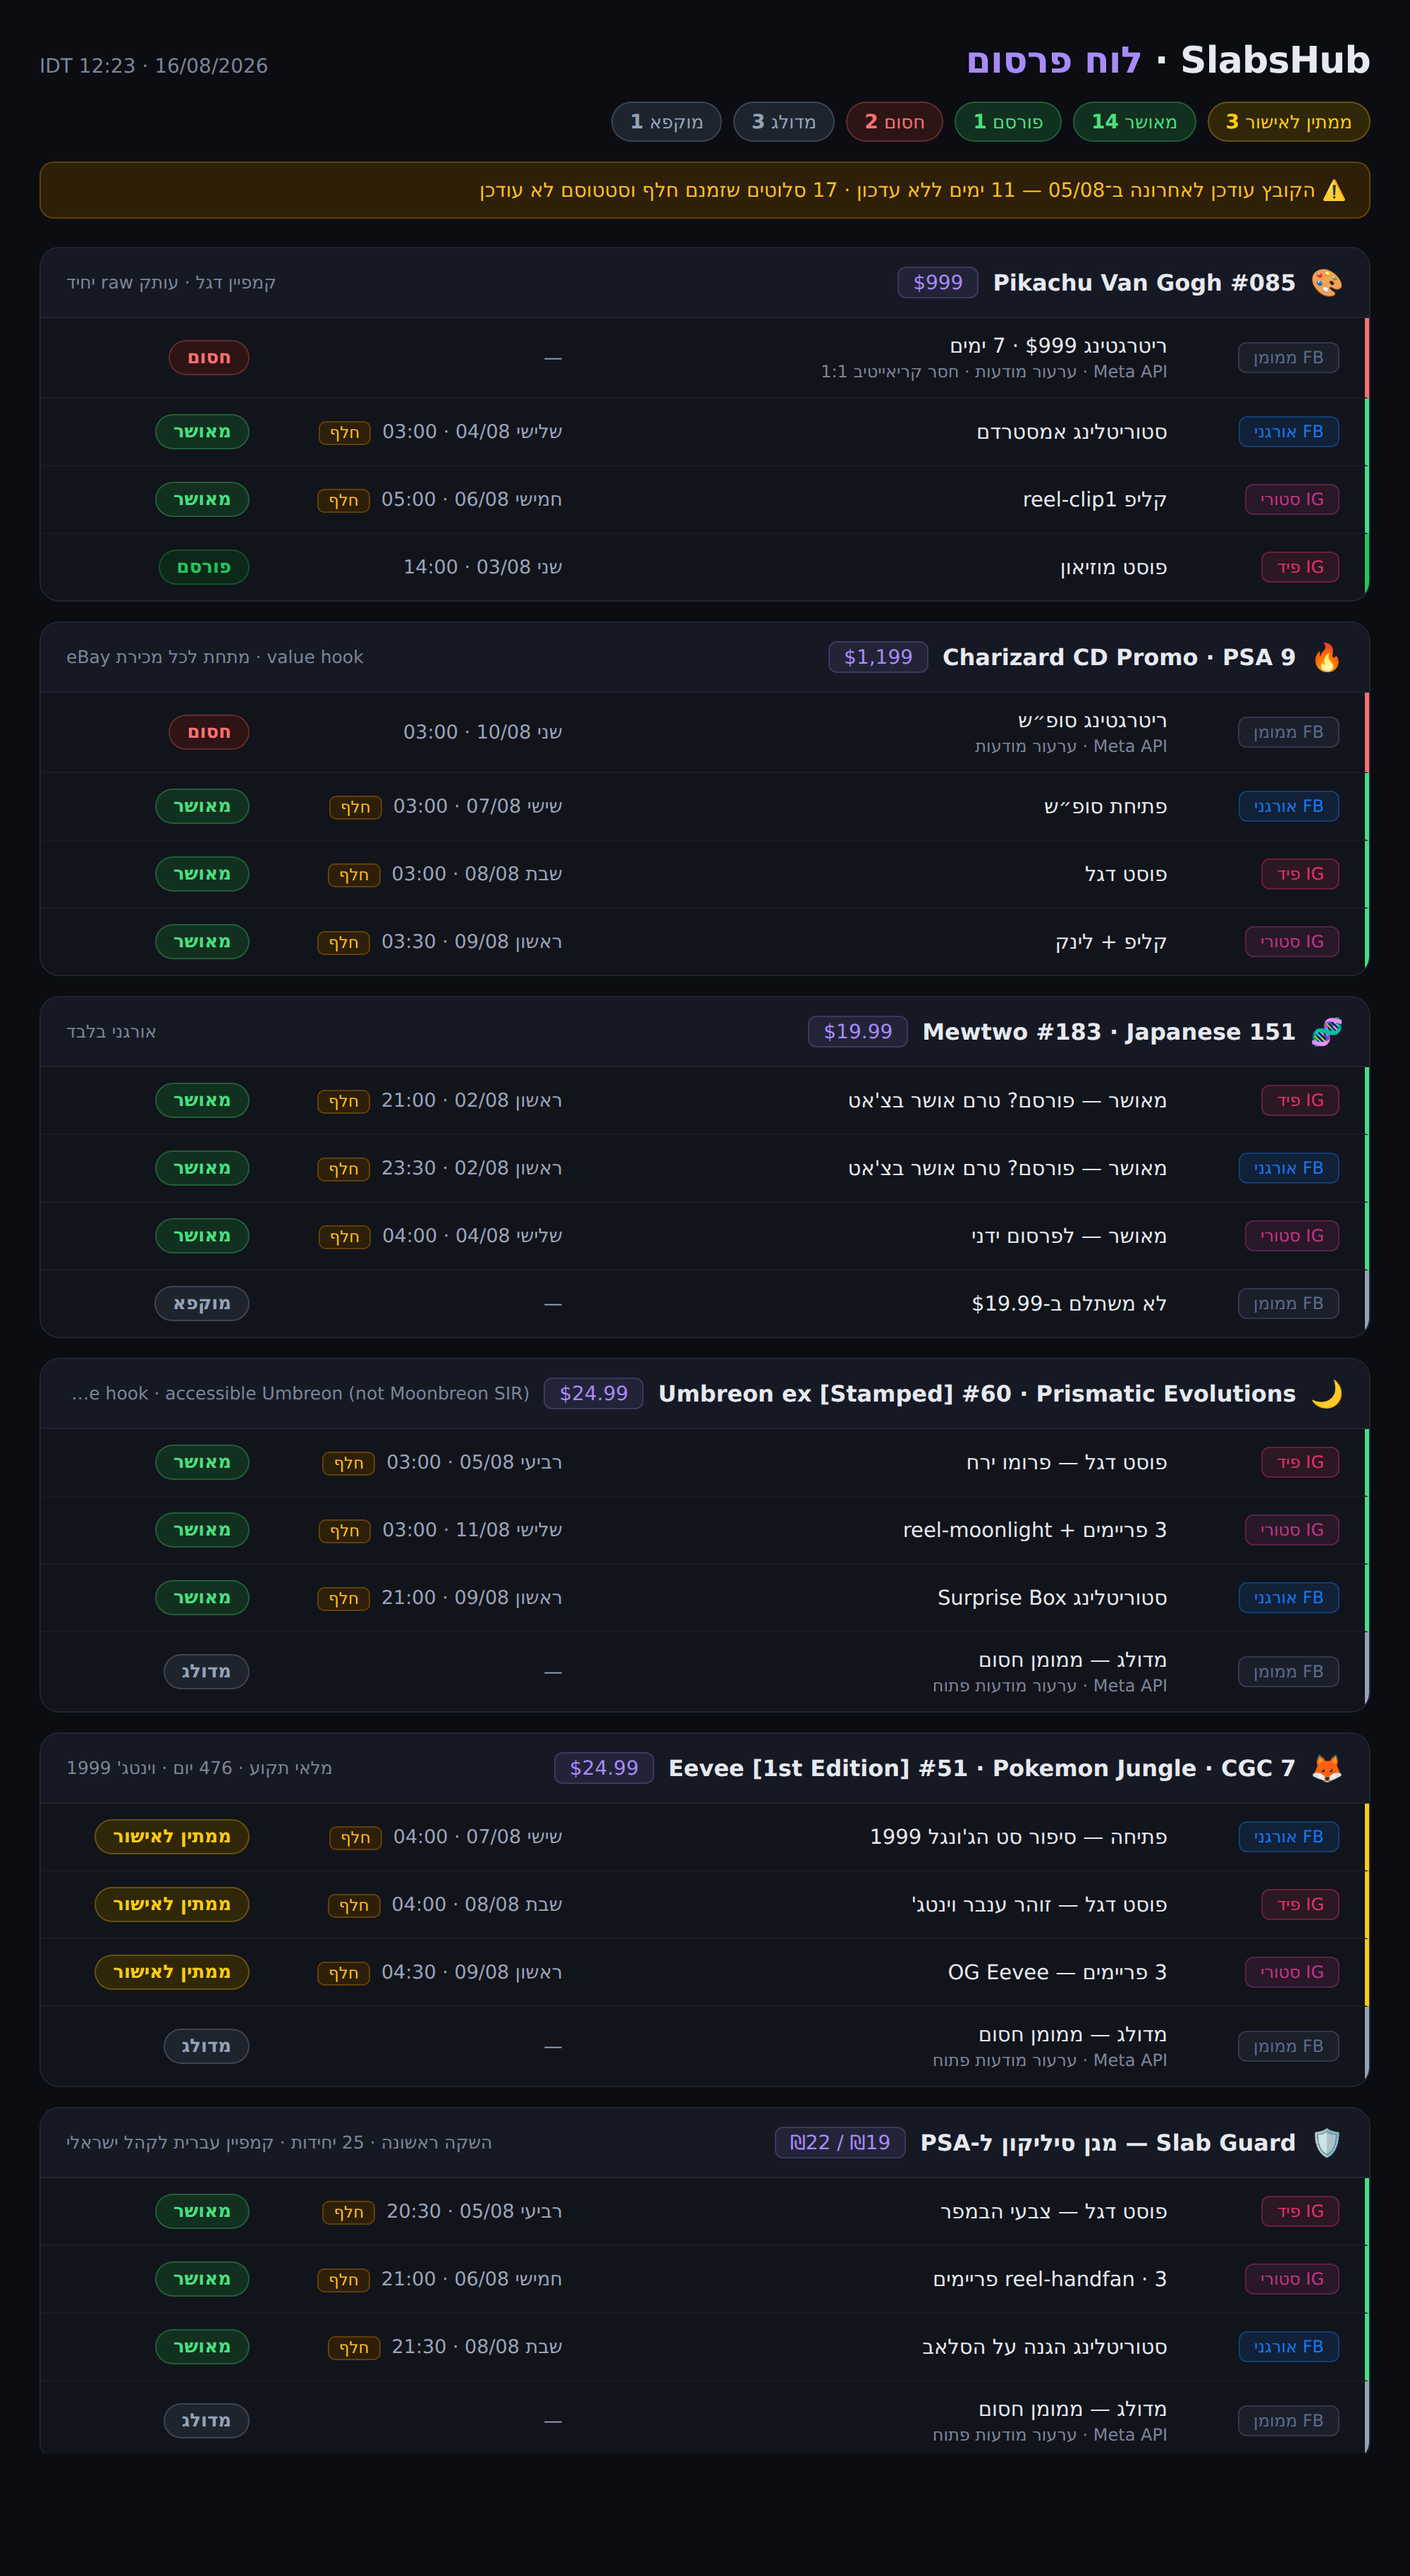
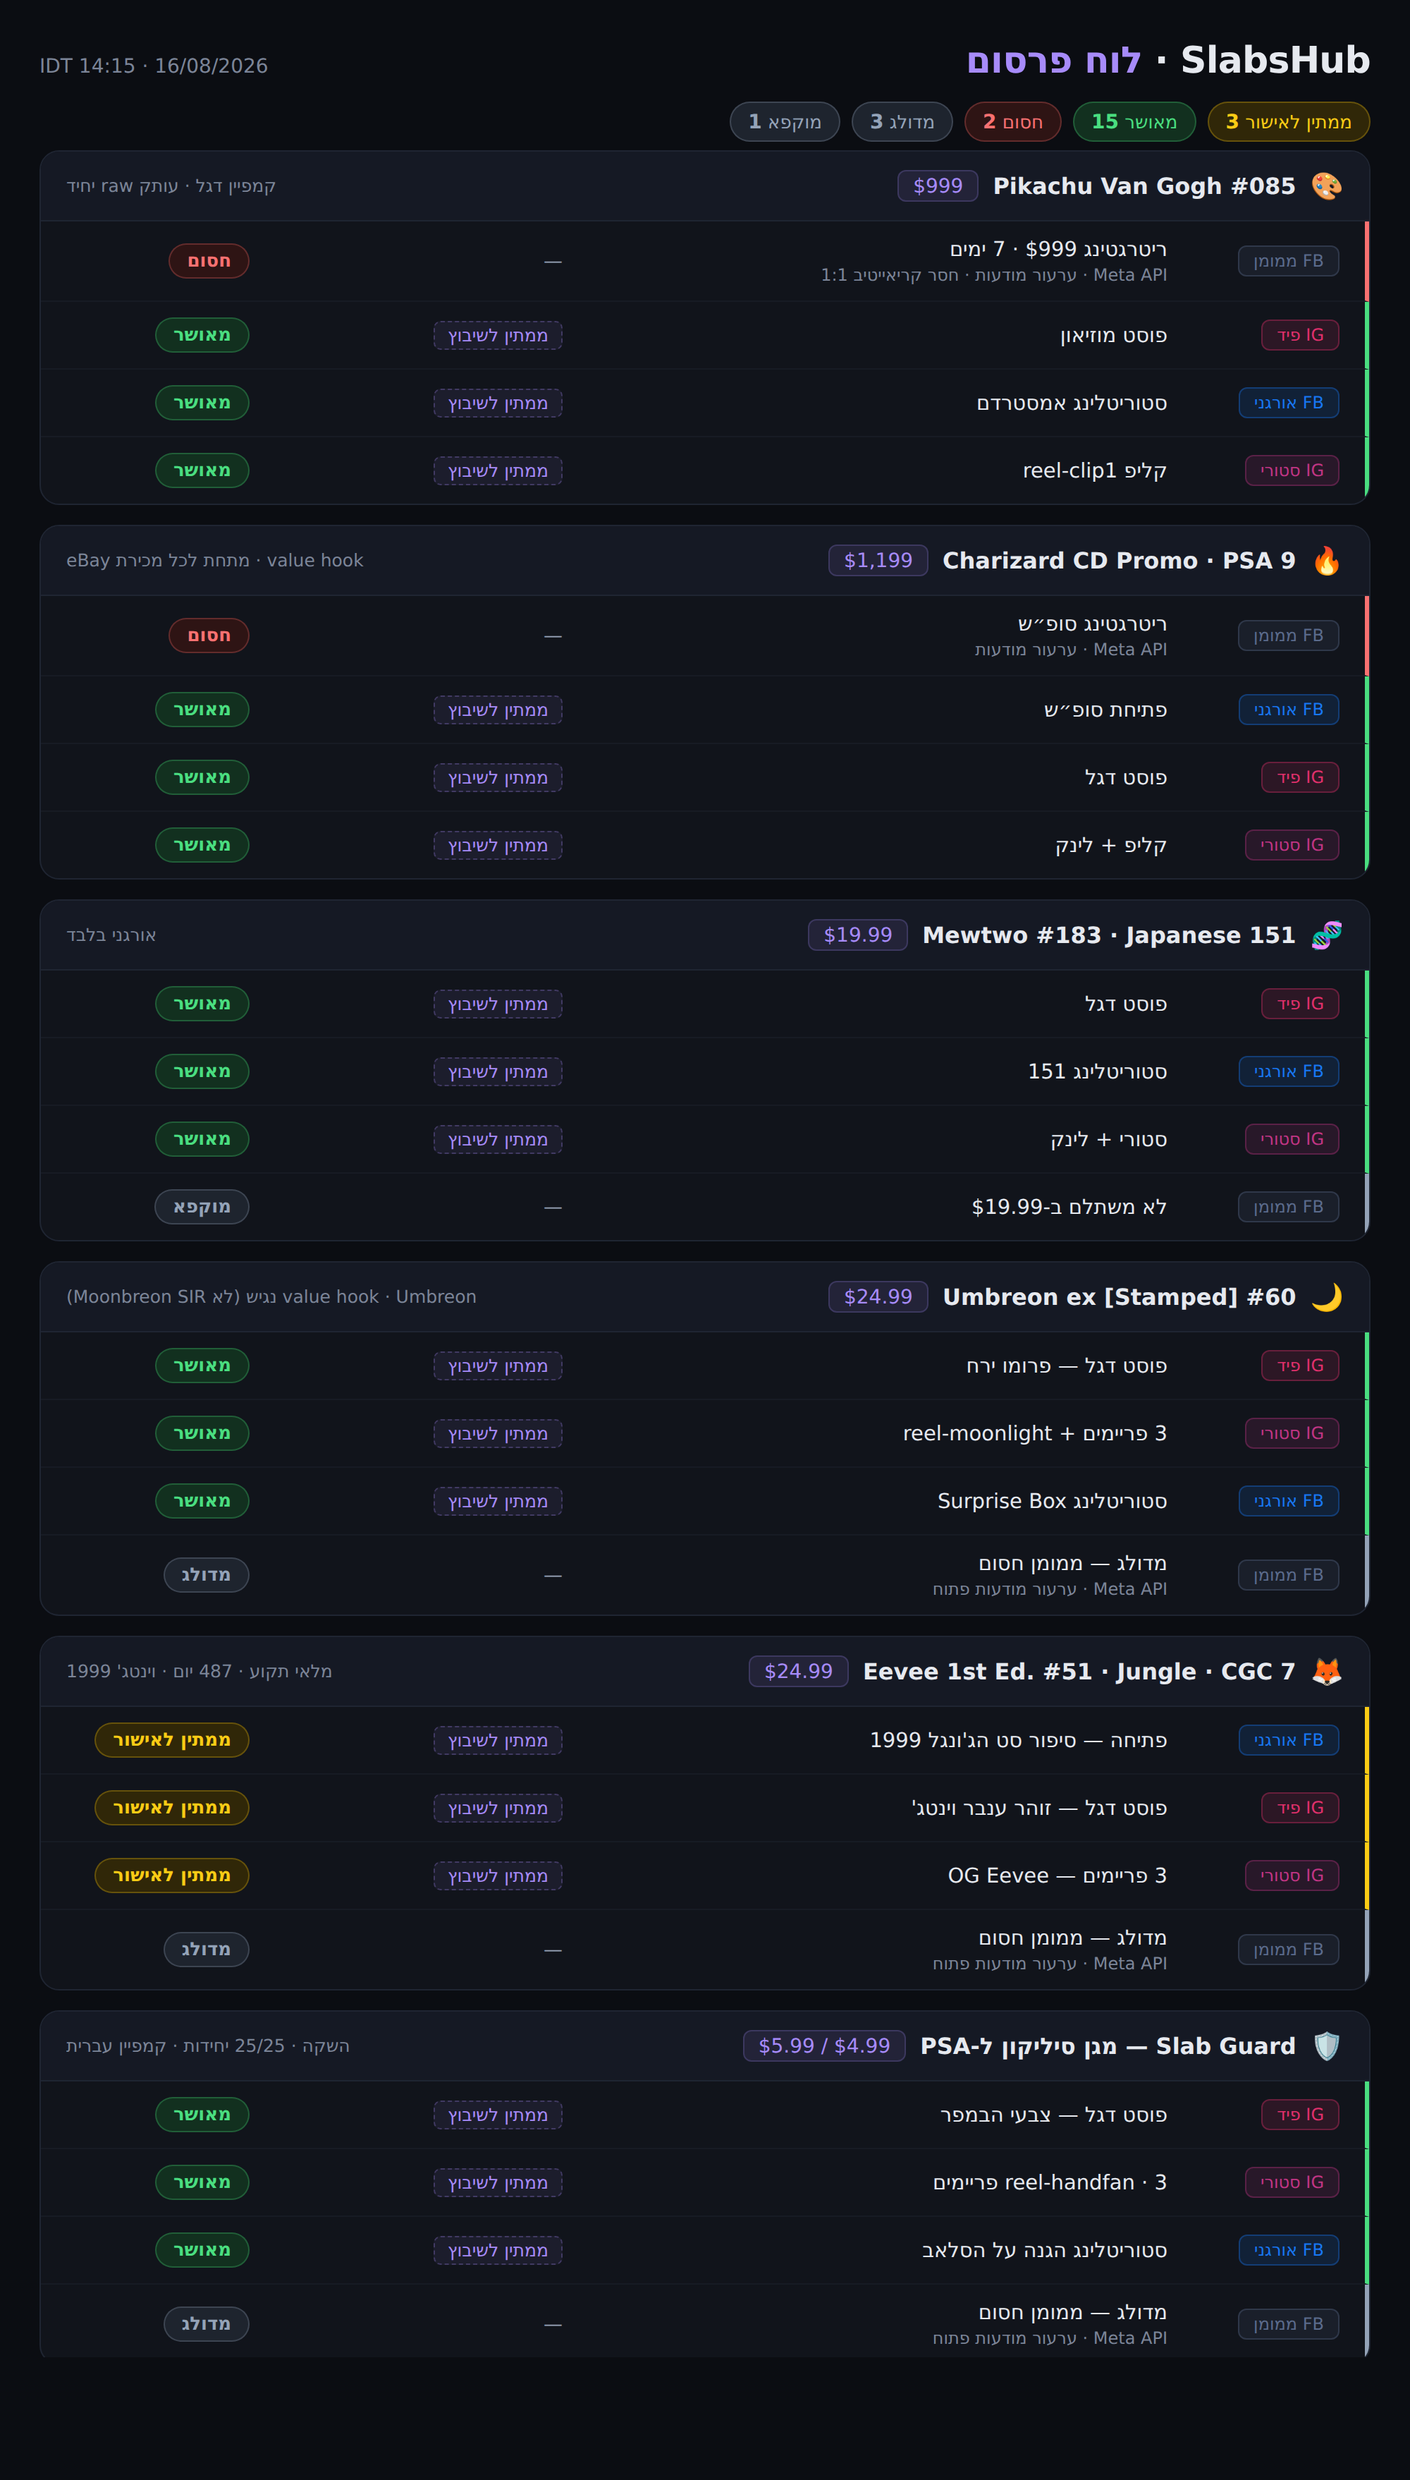
Sync board to reality: nothing from the 02-05/08 wave was published
- Cleared all expired publish_at slots to null (approved posts now await reschedule)
- Pikachu IG-feed post was wrongly marked PUBLISHED; moved back to drafts/
- Verified against Shopify: all 6 campaign products still in stock, zero sales
  (Slab Guard 25/25 units), so no campaign is archived
- Widget renders unslotted approved posts as 'ממתין לשיבוץ'

Claude-Session: https://claude.ai/code/session_01PdjEbf2b8SiTin6s2VHLWC

diff --git a/scripts/render_schedule.py b/scripts/render_schedule.py
@@ -59,8 +59,11 @@ def build_html(state, now):
             label, color, bg = STATUS[st]
             plat_name, plat_color = PLATFORM.get(p["platform"], (p["platform"], "#64748b"))
             overdue = ""
-            if p["publish_at"] and st in ("APPROVED", "QUEUED", "PENDING_APPROVAL"):
-                if datetime.fromisoformat(p["publish_at"]) < now:
+            when = fmt_date(p["publish_at"])
+            if st in ("APPROVED", "QUEUED", "PENDING_APPROVAL"):
+                if not p["publish_at"]:
+                    when = '<span class="unslotted">ממתין לשיבוץ</span>'
+                elif datetime.fromisoformat(p["publish_at"]) < now:
                     overdue = '<span class="overdue">חלף</span>'
                     overdue_total += 1
             blockers = ""
@@ -70,7 +73,7 @@ def build_html(state, now):
             <div class="row" style="--accent:{color}">
               <div class="cell plat"><span class="pill" style="background:{plat_color}22;color:{plat_color};border-color:{plat_color}55">{plat_name}</span></div>
               <div class="cell label">{p['label']}{blockers}</div>
-              <div class="cell when">{fmt_date(p['publish_at'])}{overdue}</div>
+              <div class="cell when">{when}{overdue}</div>
               <div class="cell status"><span class="badge" style="color:{color};background:{bg};border-color:{color}44">{label}</span></div>
             </div>""")
 
@@ -142,6 +145,8 @@ def build_html(state, now):
   .when {{ font-size:13.5px; color:#9aa4b8; }}
   .overdue {{ font-size:11.5px; color:#fbbf24; background:#2e1f08; border:1px solid #f59e0b44;
               padding:1px 7px; border-radius:5px; margin-right:8px; }}
+  .unslotted {{ font-size:12.5px; color:#a78bfa; background:#a78bfa14; border:1px dashed #a78bfa44;
+                padding:2px 9px; border-radius:5px; }}
   .badge {{ font-size:13px; padding:4px 12px; border-radius:999px; border:1px solid;
             display:inline-block; font-weight:bold; }}
   .foot {{ color:#5c6479; font-size:12px; margin-top:14px; }}
